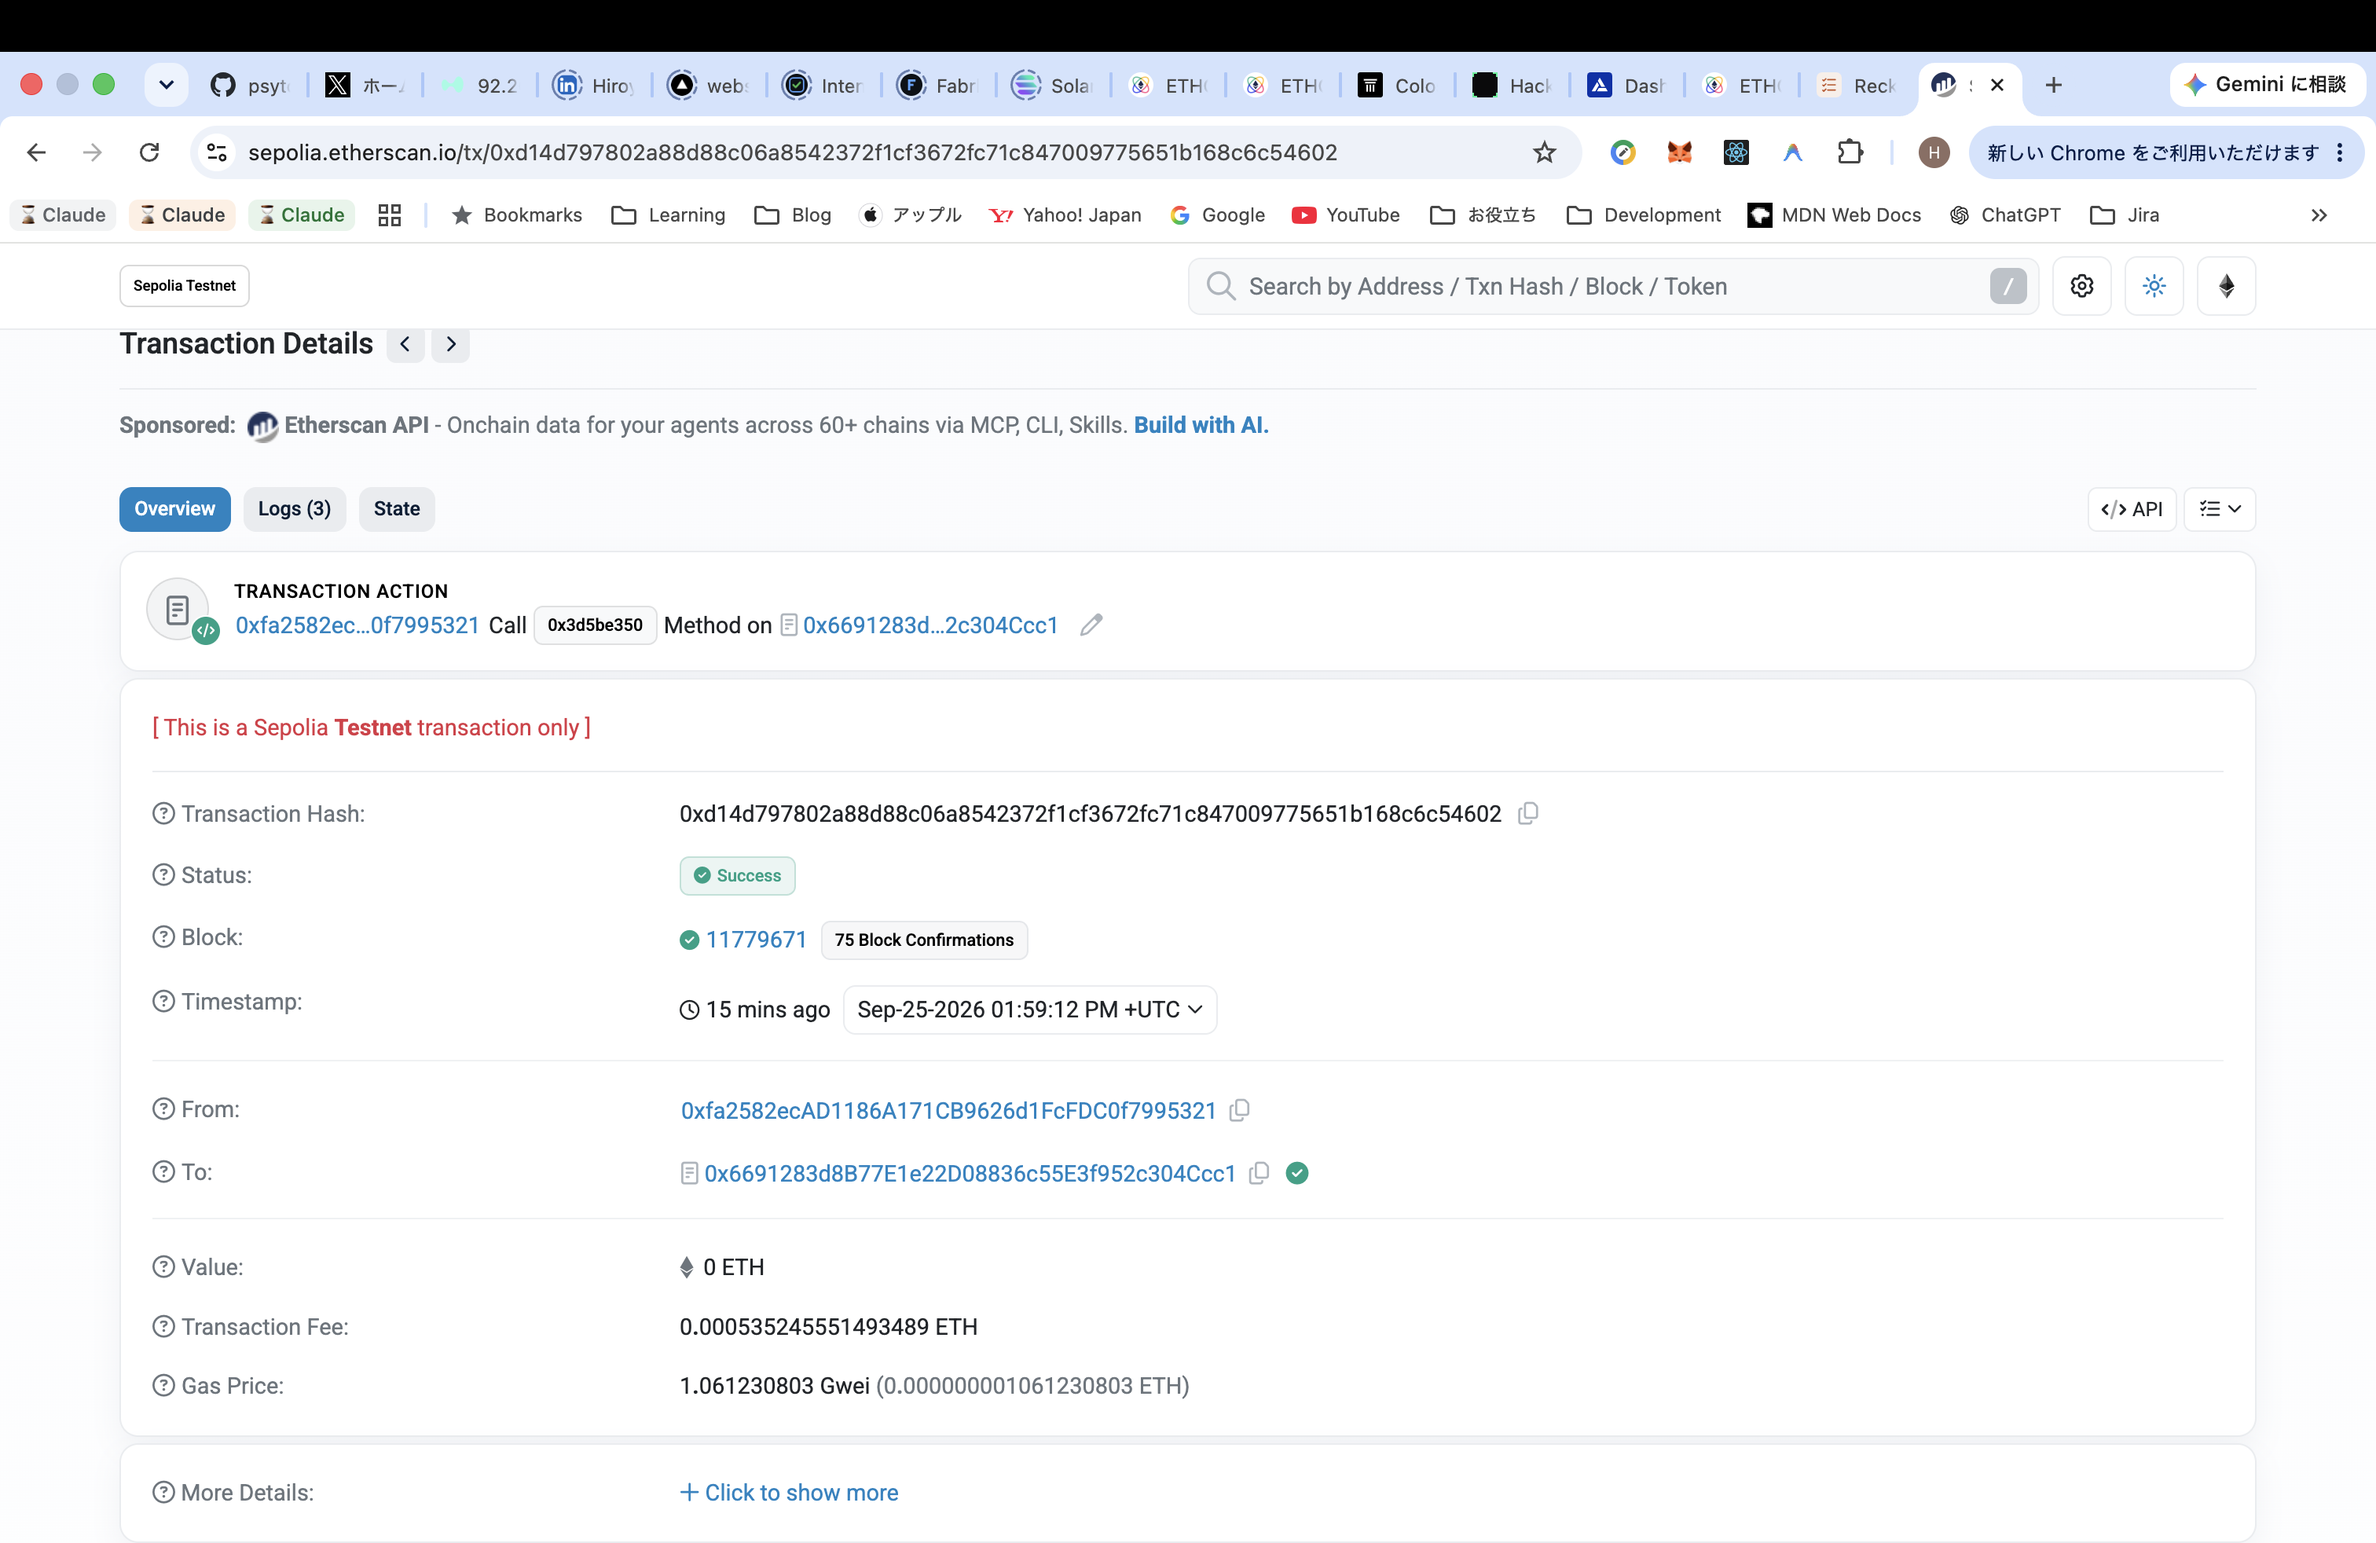
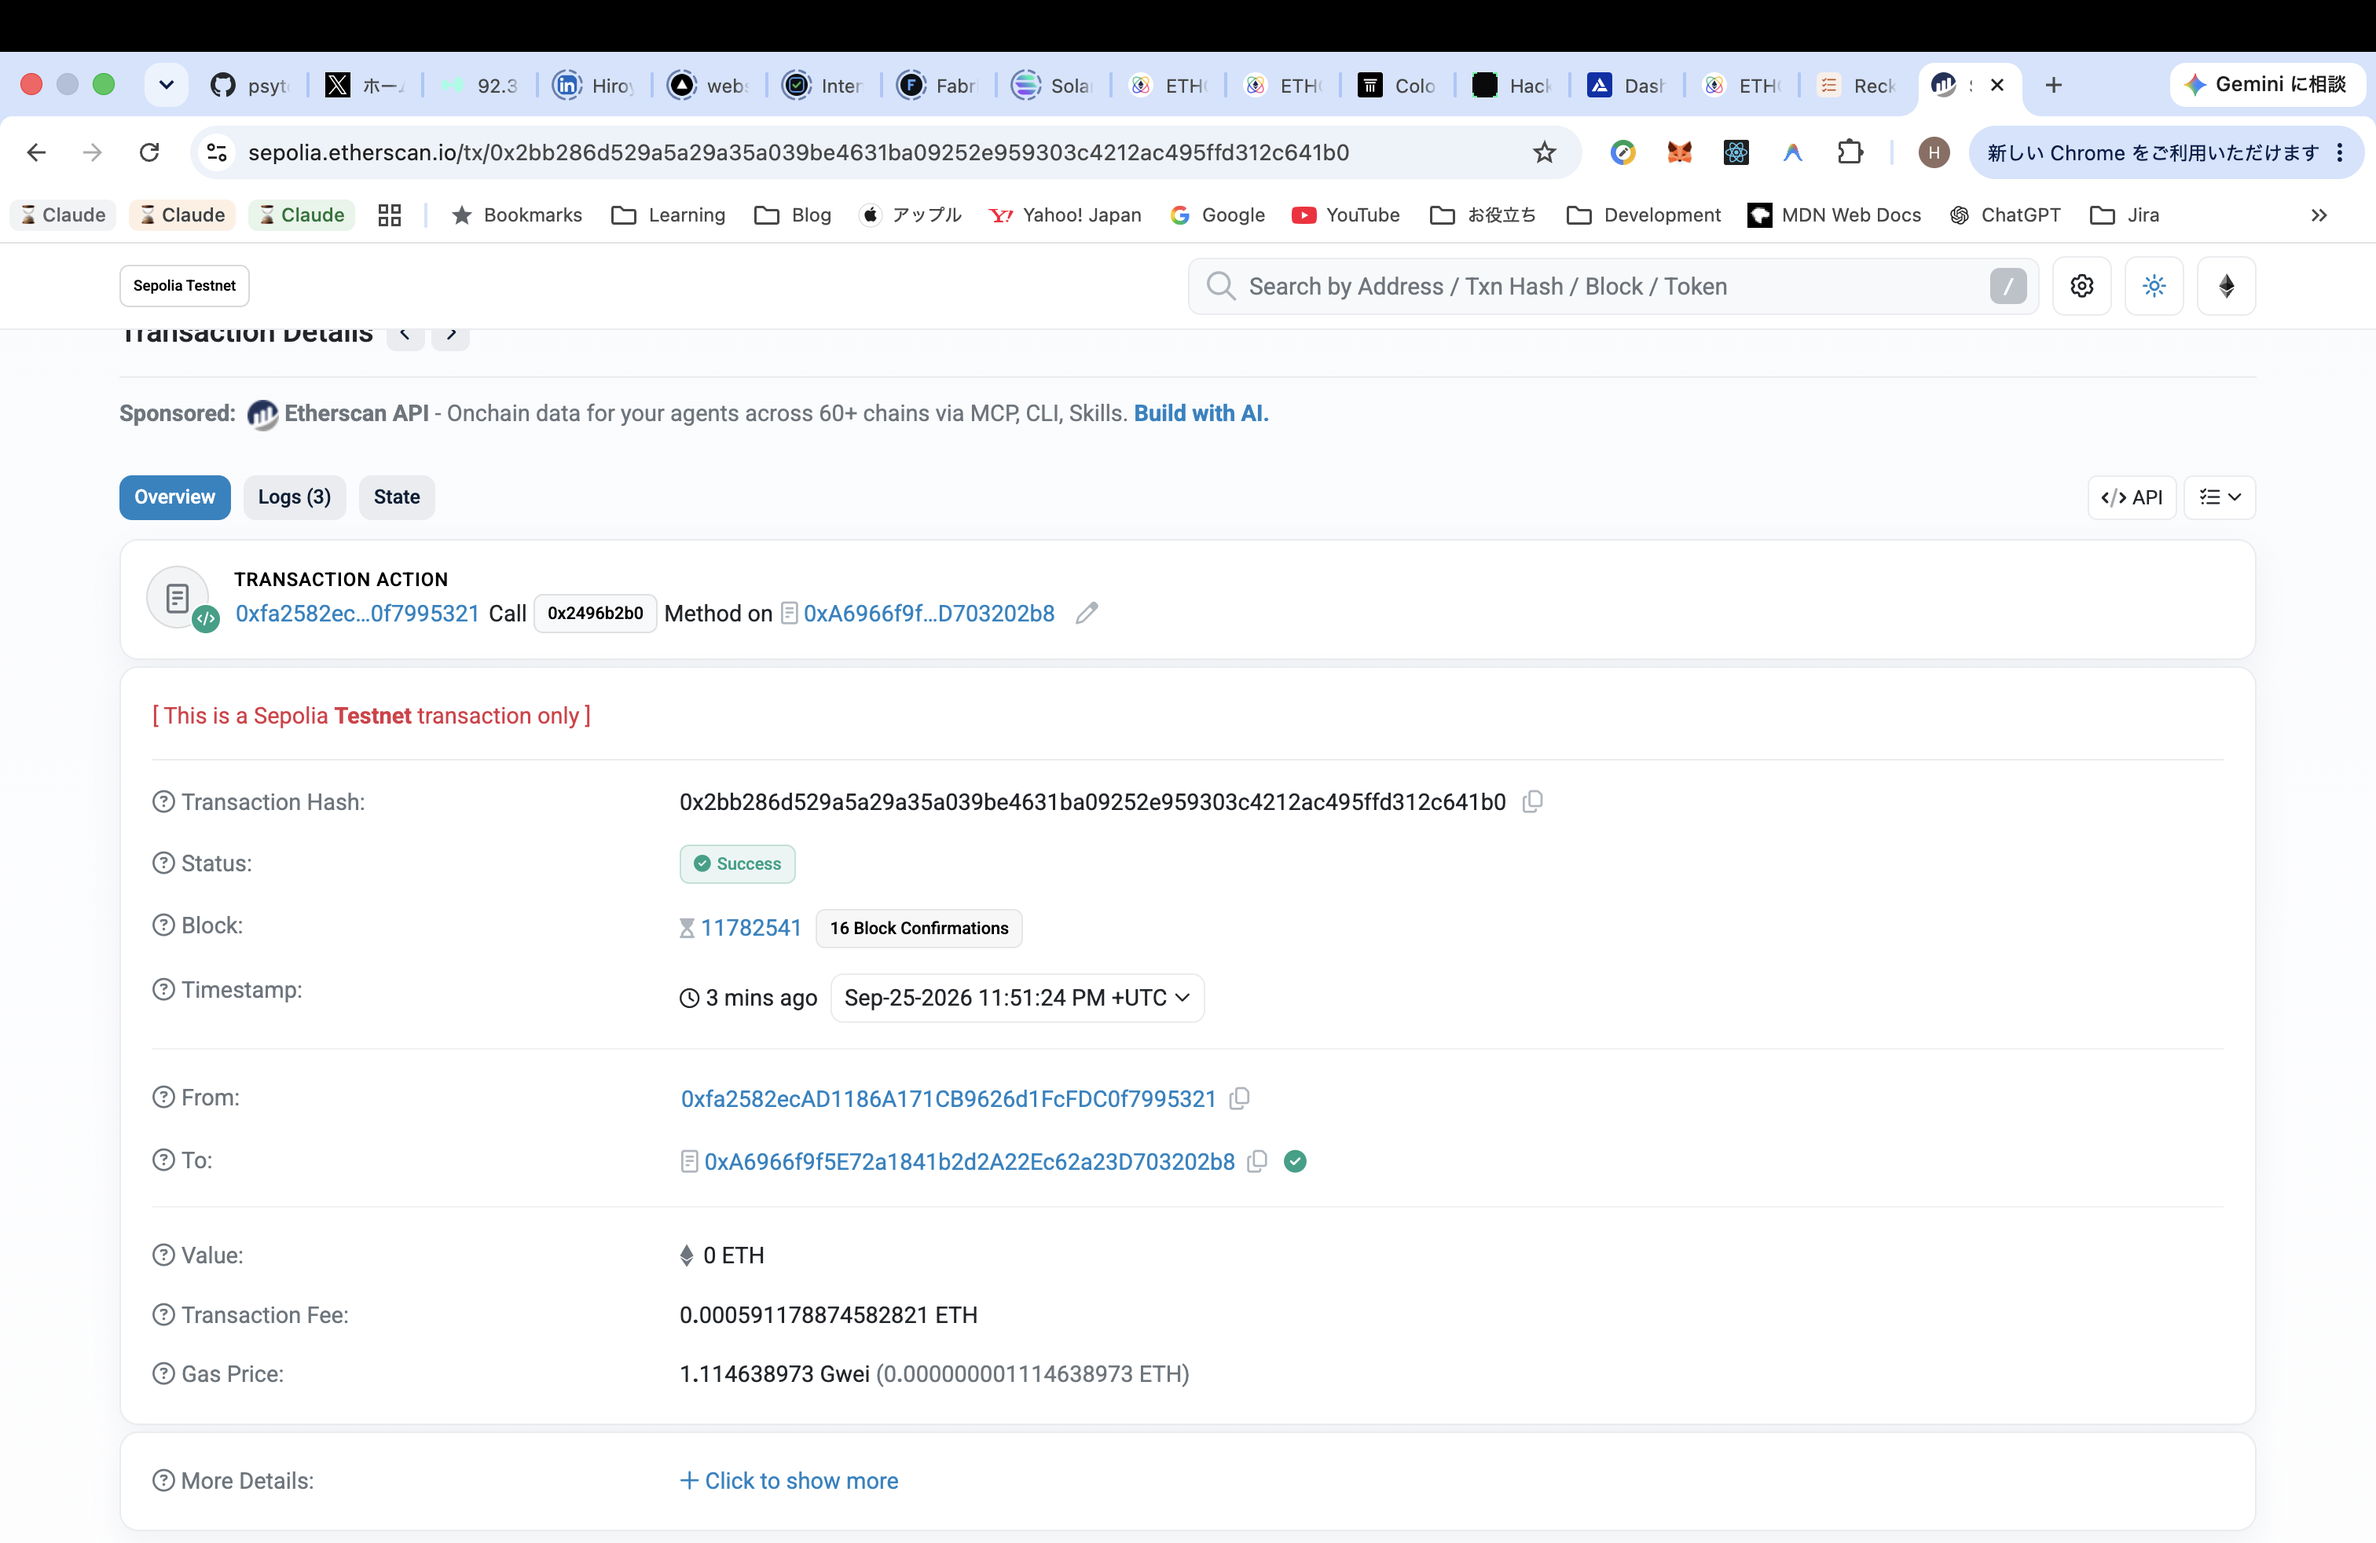
tokyo: the join, run again on an adapter that is not broken
Redeployed to 0xA6966f9f, granted it root, took root off 0x6691283d in
the same run, and ran the whole join against it. Nine transactions, all
pulled into sepolia.json FROM THE CHAIN -- from, to, block, timestamp,
status and gas are read, not typed. 33/33 both directions.

The record now carries a key with a name in it:

  reckn:job:agent.reckn.eth:48a603c2...
  -> "reproduced block=11782541 verifier=0xe0de264d..."

The 09-25 run is kept under supersededJoin0925 rather than deleted. It
happened, its links are in this repository, and a record that drops what
it later finds inconvenient is not a record. RECEIPTS.md carries it as a
second table with both defects named.

sepolia-receipts now gathers hashes STRUCTURALLY -- every object anywhere
in the record with a `tx` -- instead of naming the sections that hold
them. Adding supersededJoin0925 had silently dropped six real
transactions out of the checked set while their links stayed in the
tree, and the check went green. A check a new key can walk past is the
kind R-7 is about. It caught the six missing links immediately after.

Beat 3 re-shot from THIS run, replacing three frames that pointed at the
old adapter and at a key with no name in it. Beat 1's two frames are
untouched: they never went through the adapter.

Before writing them down, the three "who can write now" rows were
re-simulated with eth_call rather than copied: buyer and third party
revert 0x4b27a133, the agent returns 0x. The residue is unchanged, but
[…]

diff --git a/docs/tokyo-2026/RECEIPTS.md b/docs/tokyo-2026/RECEIPTS.md
@@ -127,7 +127,7 @@ and anyone can call `getLastIndex` and get the same two numbers.
 
 ![Etherscan decodes it: "Set Text" on our resolver, sent by the buyer -- not by the agent.](media/beat3-03-buyer-writes.png)
 
-![UniversalResolverV2 returns: ENS says "reproduced block=11779671 verifier=0xe0de264d...".](media/beat3-04-ens-resolves-the-record.png)
+![UniversalResolverV2 returns: ENS says "reproduced block=11782541 verifier=0xe0de264d...".](media/beat3-04-ens-resolves-the-record.png)
 
 **Beat 2 is missing on purpose.** It is the agent's ENS write being refused, and it cannot be
 photographed honestly yet: `reckn-agent` still holds root, so today that write succeeds. It is
@@ -135,27 +135,58 @@ taken immediately after the renounce, and the renounce's own verification is the
 
 ## The join, on the real chain
 
-`bash tokyo-2026/scripts/join-sepolia.sh` — one path, seven steps, no fork.
-Adapter [`0x6691283d8B77E1e22D08836c55E3f952c304Ccc1`](https://sepolia.etherscan.io/address/0x6691283d8B77E1e22D08836c55E3f952c304Ccc1).
+`bash tokyo-2026/scripts/join-sepolia.sh` — one path, seven steps, no fork. Run again on
+**2026-09-26** against the rebuilt adapter
+[`0xA6966f9f5E72a1841b2d2A22Ec62a23D703202b8`](https://sepolia.etherscan.io/address/0xA6966f9f5E72a1841b2d2A22Ec62a23D703202b8).
 
 | | transaction | result | gas |
 |---|---|---|---|
-| deploy the adapter | [`0x07b1fdf0…`](https://sepolia.etherscan.io/tx/0x07b1fdf08c6a65adff0b7b190f78b08da87ea6cc95ba2f02866a2044b6953acd) | success | 1,953,465 |
-| give it the role it needs | [`0xb4c7d8b7…`](https://sepolia.etherscan.io/tx/0xb4c7d8b71c40ed6ab9b23d617a12fc9785dc1fdcec4aff3aee970739b8e7b6dc) | success | 63,098 |
-| the buyer funds 250 USDC and names the verifier | [`0xf93c1c53…`](https://sepolia.etherscan.io/tx/0xf93c1c53484150aa04c5910a55f43ac0a2fdf69488f1029bcd142f46577b8d1f) | success | 244,611 |
-| **a stranger settles it, on a real proof** | [`0x51d7c9ce…`](https://sepolia.etherscan.io/tx/0x51d7c9ce802133a7793a2a29c7d3be6ee01585ea2eb8059dcc0022b363f14592) | success | 293,917 |
-| **the adapter opens one window, for the buyer** | [`0xd14d7978…`](https://sepolia.etherscan.io/tx/0xd14d797802a88d88c06a8542372f1cf3672fc71c847009775651b168c6c54602) | success | 504,363 |
-| **the buyer writes the record** | [`0xbf2ca290…`](https://sepolia.etherscan.io/tx/0xbf2ca29051e842867b44d2b43c19812b42c24c4529acd964aa8ed730fe1276aa) | success | 183,719 |
-| the window closes | [`0x6b2081b8…`](https://sepolia.etherscan.io/tx/0x6b2081b844dacdbe04612a8f1dc13990e5e4061a9200f948c7f4bed7a29d1e20) | success | 74,956 |
+| deploy the **fixed** adapter | [`0xc198491d…`](https://sepolia.etherscan.io/tx/0xc198491d3f2323f0da08d6b960ba98c2d8244e414757f90ac9e2ad4ddda96387) | success | 2,311,987 |
+| give it the role it needs | [`0x765afbe7…`](https://sepolia.etherscan.io/tx/0x765afbe7f4f4378d52bd28ed74279259286740a3ba49113bcdeeec13b0344625) | success | 63,098 |
+| **take the role away from the old one** | [`0x0d5bbf3e…`](https://sepolia.etherscan.io/tx/0x0d5bbf3e221d611ebd9ee9513ed3ff6be41bd1bc2deaed8caa77d0093901b90b) | success | 41,137 |
+| the buyer approves the escrow | [`0x79a5cff5…`](https://sepolia.etherscan.io/tx/0x79a5cff538e0818c738f379103c5d5972b1dd70bae8cba2b44bf6143079f2302) | success | 46,366 |
+| the buyer funds 250 USDC and names the verifier | [`0xb12350b6…`](https://sepolia.etherscan.io/tx/0xb12350b69da947615b35f81d42abbc9594784defc8c1e8f9ada793627234f285) | success | 244,587 |
+| **a stranger settles it, on a real proof** | [`0x2275f36d…`](https://sepolia.etherscan.io/tx/0x2275f36d3d04b5e1655d54d8d4195af38e146ca554e0ad59466f76301acec128) | success | 293,893 |
+| **the adapter opens one window, for the buyer** | [`0x2bb286d5…`](https://sepolia.etherscan.io/tx/0x2bb286d529a5a29a35a039be4631ba09252e959303c4212ac495ffd312c641b0) | success | 530,377 |
+| **the buyer writes the record** | [`0x860a8e91…`](https://sepolia.etherscan.io/tx/0x860a8e9170c22c9d68eb898308b1c6562c3cf356fbba788cf48a0c21ddaa1692) | success | 139,131 |
+| the window closes | [`0x9c597a4d…`](https://sepolia.etherscan.io/tx/0x9c597a4d86efd7c09014f989ea97154d59442658db843f5b4f368405601ffa55) | success | 75,204 |
 
 ENS returns, through `UniversalResolverV2` and not by calling our resolver directly:
 
 ```
-"reproduced block=11779671 verifier=0xe0de264d76f0664c4e943fc02e3d9fb46cd27608"
+reckn:job:agent.reckn.eth:48a603c2442fe4f372a025f32a6c879e002bc44a860552d6adc0e086cc00dae9
+  -> "reproduced block=11782541 verifier=0xe0de264d76f0664c4e943fc02e3d9fb46cd27608"
 ```
 
-and names our resolver as the one that answered. The agent's balance moved by 250 USDC, because
+ENS names our resolver as the one that answered. The agent's balance moved by 250 USDC, because
 the escrow paid it — this is a settlement, not a simulation of one.
+
+**The key names the name it belongs to**, which it did not on 09-25. The resolver derives a
+role's resource from the key alone — `agent.reckn.eth` and `victim.reckn.eth` with one key give
+one identical resource, measured — so a role is never scoped to a name. Putting the name in the
+key does not stop bytes being written onto somebody else's name; it stops them being read as
+that somebody's record.
+
+### The 09-25 run, superseded
+
+Kept, not deleted. It happened, and a record that drops what it later finds inconvenient is not
+a record. That adapter is
+[`0x6691283d8B77E1e22D08836c55E3f952c304Ccc1`](https://sepolia.etherscan.io/address/0x6691283d8B77E1e22D08836c55E3f952c304Ccc1);
+its root was revoked on 09-26, so its window can never be opened again. **Two defects, both
+found overnight**: `close` was callable by anyone with no further condition, so a stranger could
+open a deal's one window and close it in the same block and leave the record permanently
+unwritable; and the name was a caller argument, so a grant could be aimed at another name.
+
+| | transaction | result | gas |
+|---|---|---|---|
+| deploy the adapter | [`0x07b1fdf0…`](https://sepolia.etherscan.io/tx/0x07b1fdf08c6a65adff0b7b190f78b08da87ea6cc95ba2f02866a2044b6953acd) | success | 1,953,465 |
+| give it the role | [`0xb4c7d8b7…`](https://sepolia.etherscan.io/tx/0xb4c7d8b71c40ed6ab9b23d617a12fc9785dc1fdcec4aff3aee970739b8e7b6dc) | success | 63,098 |
+| approve | [`0xe2237ae6…`](https://sepolia.etherscan.io/tx/0xe2237ae614dd6a8a367c5913e774a5b5ef10c79bf1c11c6600d51ab62b00fe27) | success | 26,466 |
+| fund | [`0xf93c1c53…`](https://sepolia.etherscan.io/tx/0xf93c1c53484150aa04c5910a55f43ac0a2fdf69488f1029bcd142f46577b8d1f) | success | 244,611 |
+| settle | [`0x51d7c9ce…`](https://sepolia.etherscan.io/tx/0x51d7c9ce802133a7793a2a29c7d3be6ee01585ea2eb8059dcc0022b363f14592) | success | 293,917 |
+| open | [`0xd14d7978…`](https://sepolia.etherscan.io/tx/0xd14d797802a88d88c06a8542372f1cf3672fc71c847009775651b168c6c54602) | success | 504,363 |
+| write | [`0xbf2ca290…`](https://sepolia.etherscan.io/tx/0xbf2ca29051e842867b44d2b43c19812b42c24c4529acd964aa8ed730fe1276aa) | success | 183,719 |
+| close | [`0x6b2081b8…`](https://sepolia.etherscan.io/tx/0x6b2081b844dacdbe04612a8f1dc13990e5e4061a9200f948c7f4bed7a29d1e20) | success | 74,956 |
 
 **What that string is, exactly.** The buyer typed it. The grant authorises the KEY, not the
 bytes, so nothing on chain forced those words: a buyer could write `reproduced` under a deal
